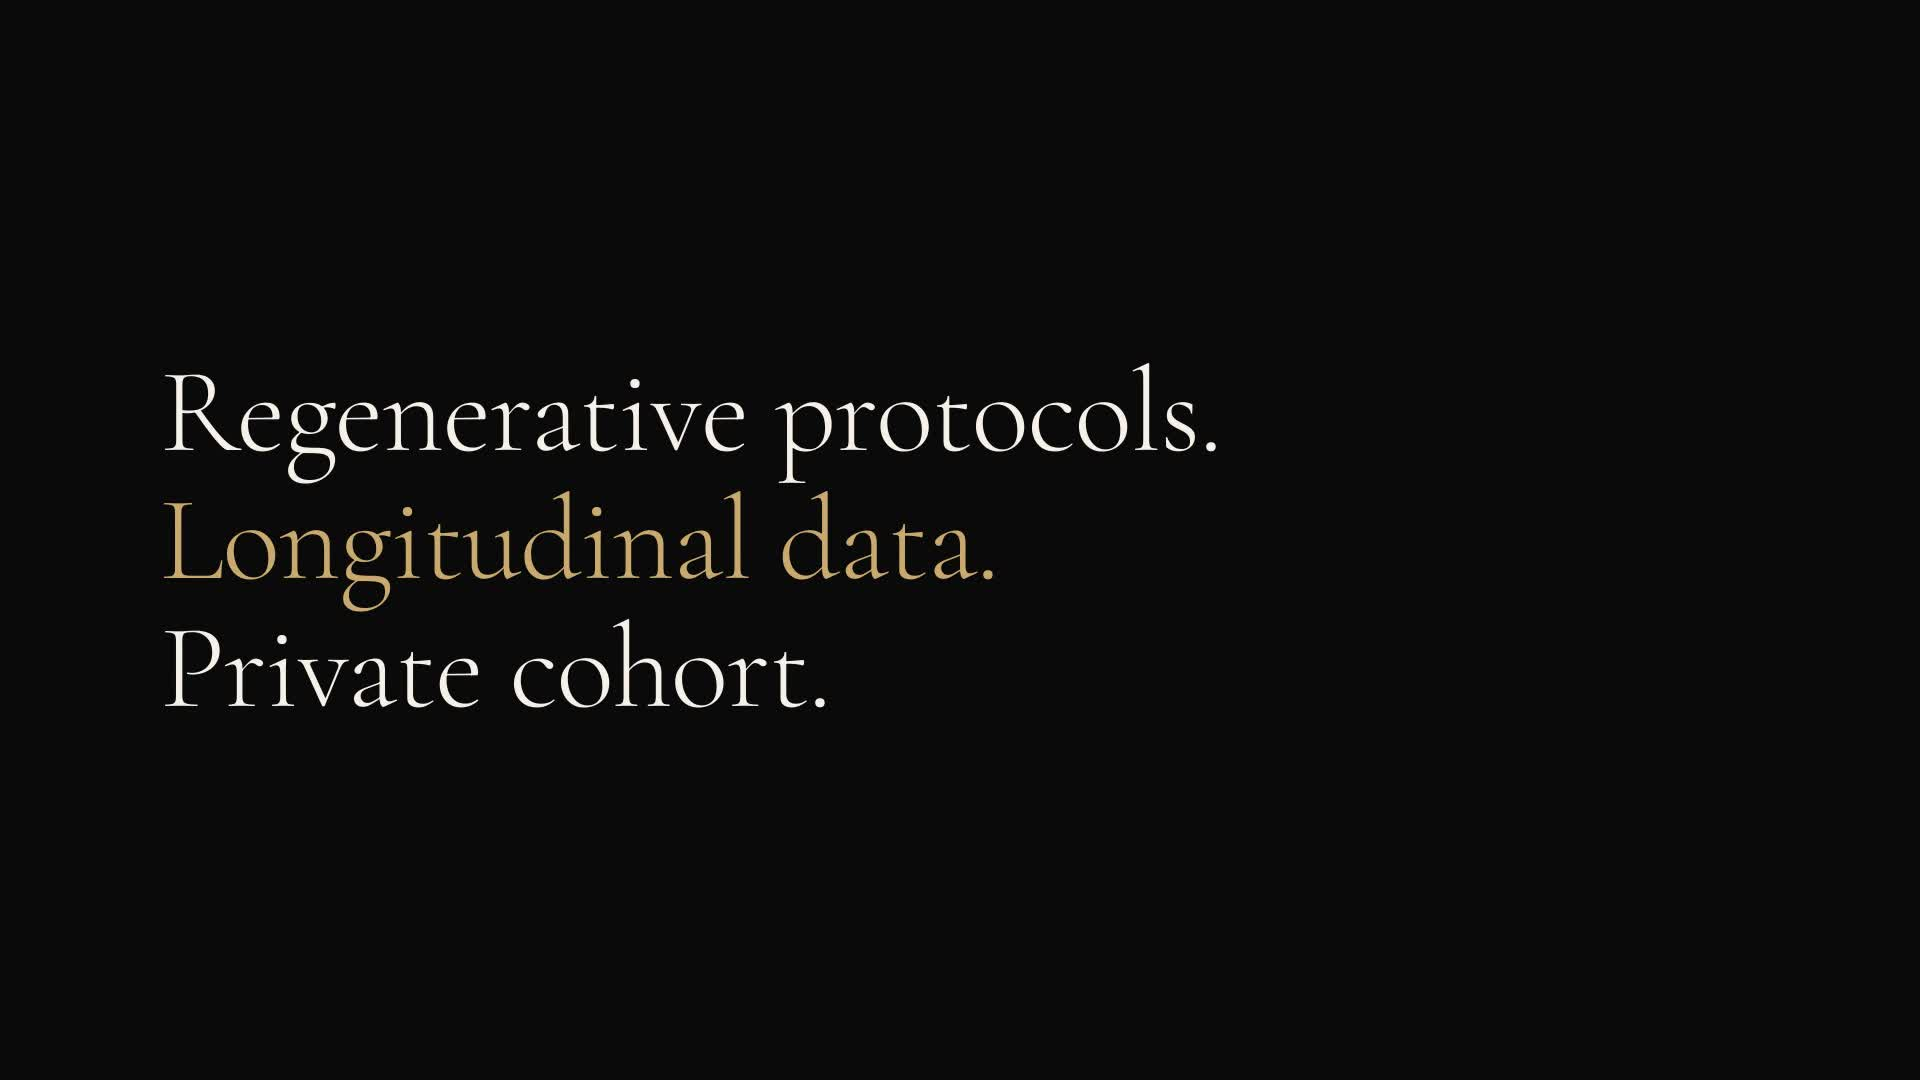
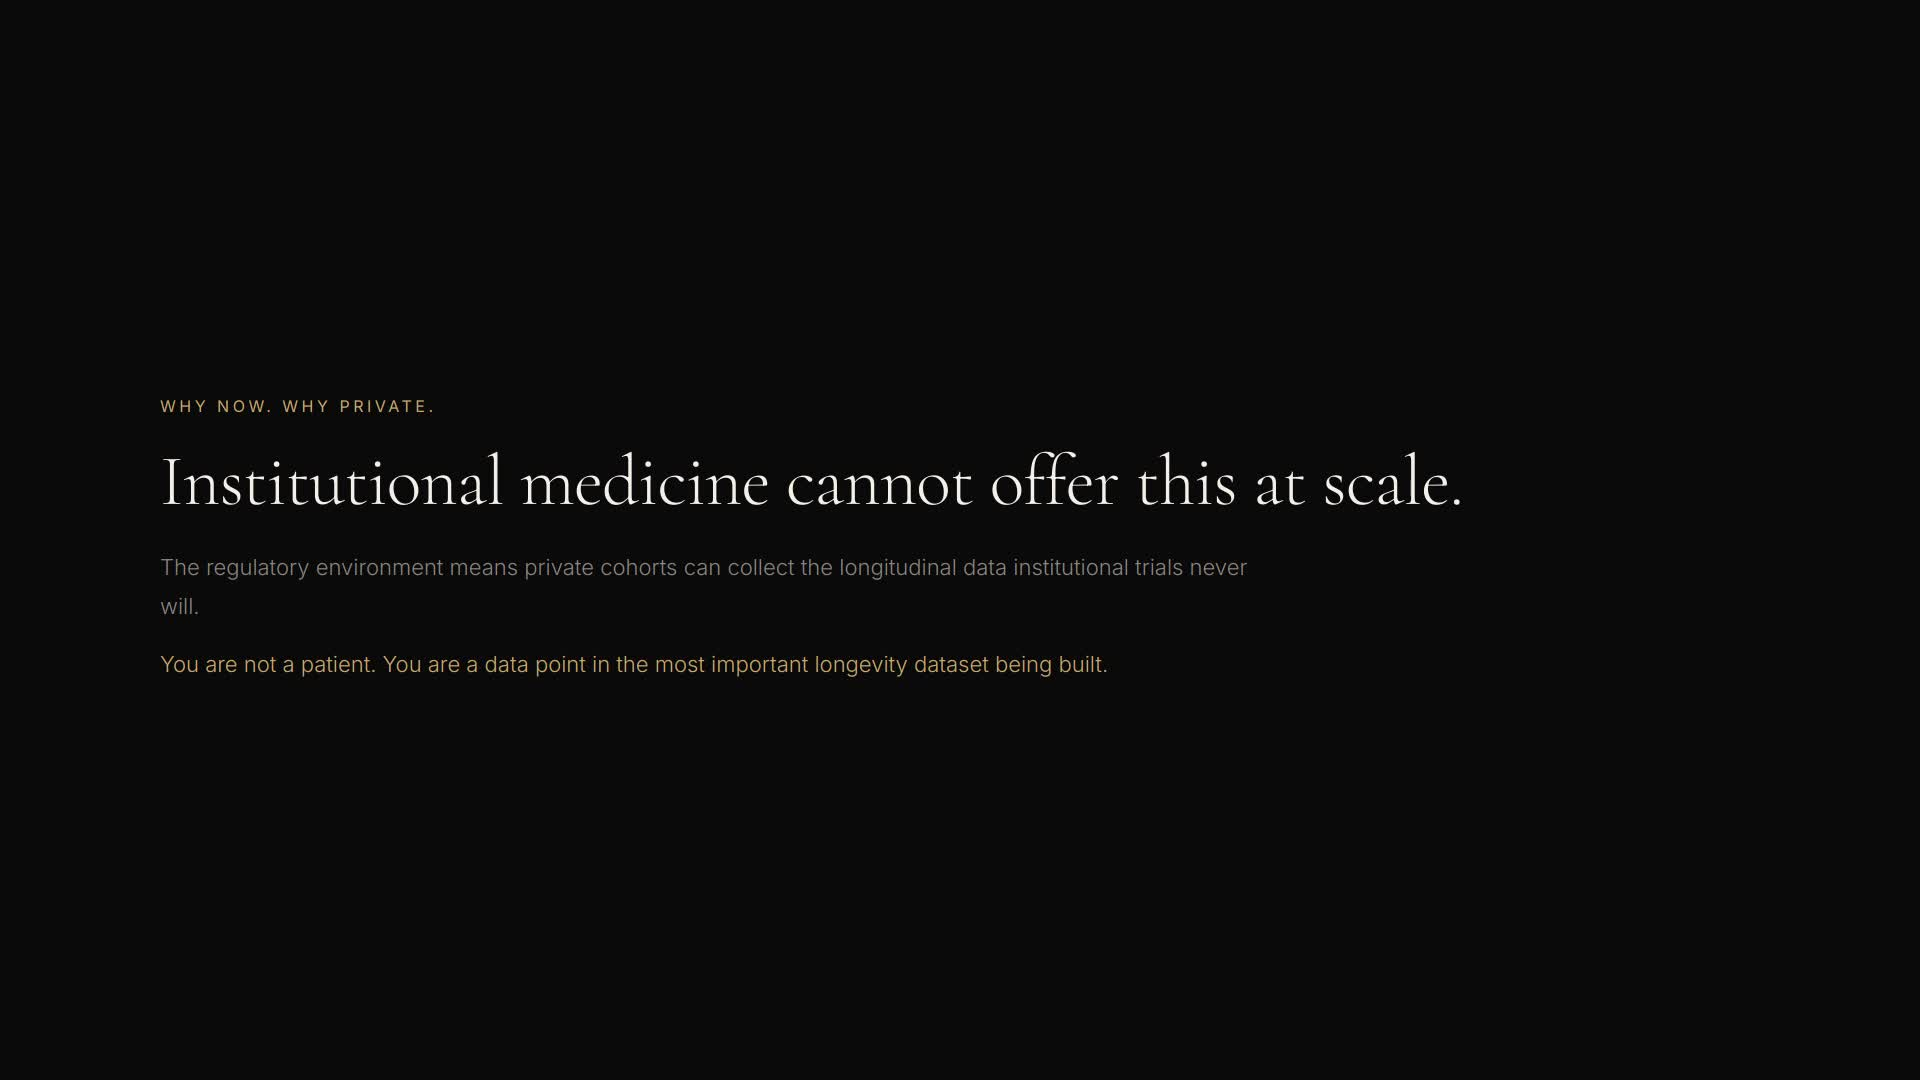
feat: new teaser video — stem cells, lysates, off-label, exclusivity narrative. faster pacing.

Changed region(s): [[0.0625, 0.3361, 0.75, 0.55], [0.0938, 0.5806, 0.5625, 0.6722]]

diff --git a/app/page.tsx b/app/page.tsx
@@ -363,7 +363,7 @@ function PlayButton() {
         color: hovered ? T.accent : T.muted,
         transition: 'color 0.3s',
       }}>
-        Play Teaser — 45s
+        Play Teaser — 40s
       </span>
     </div>
   )
